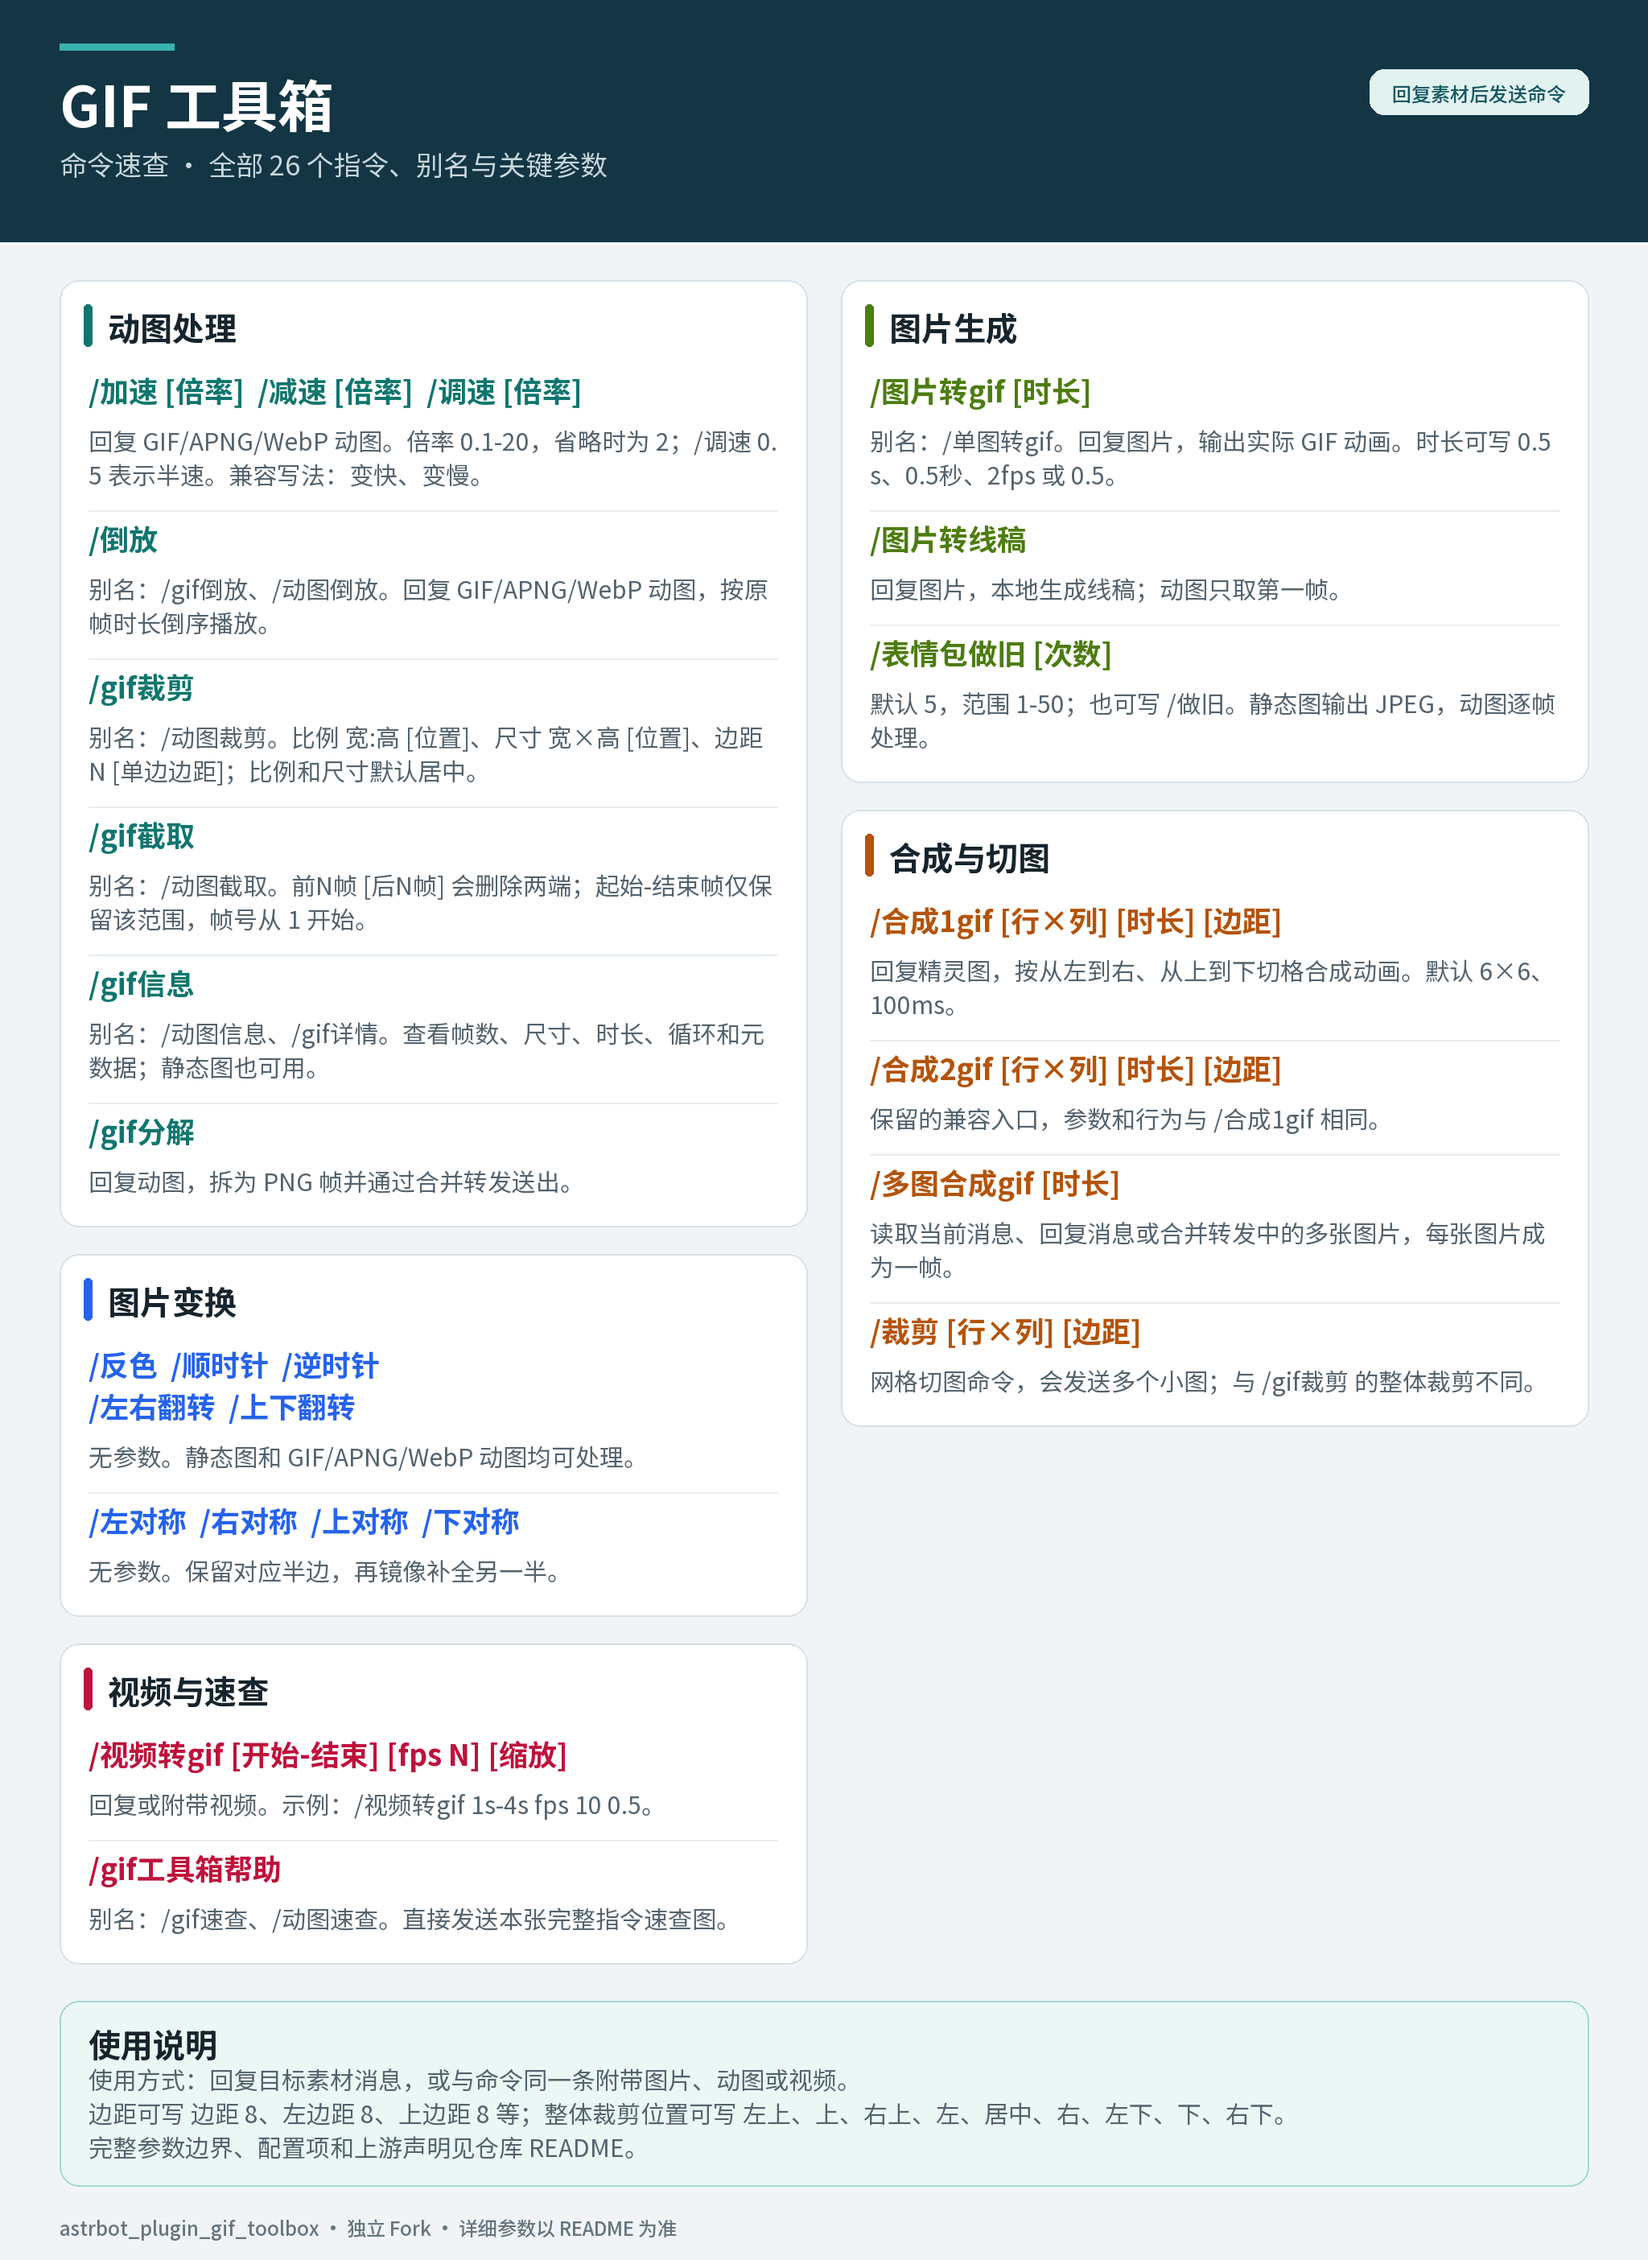
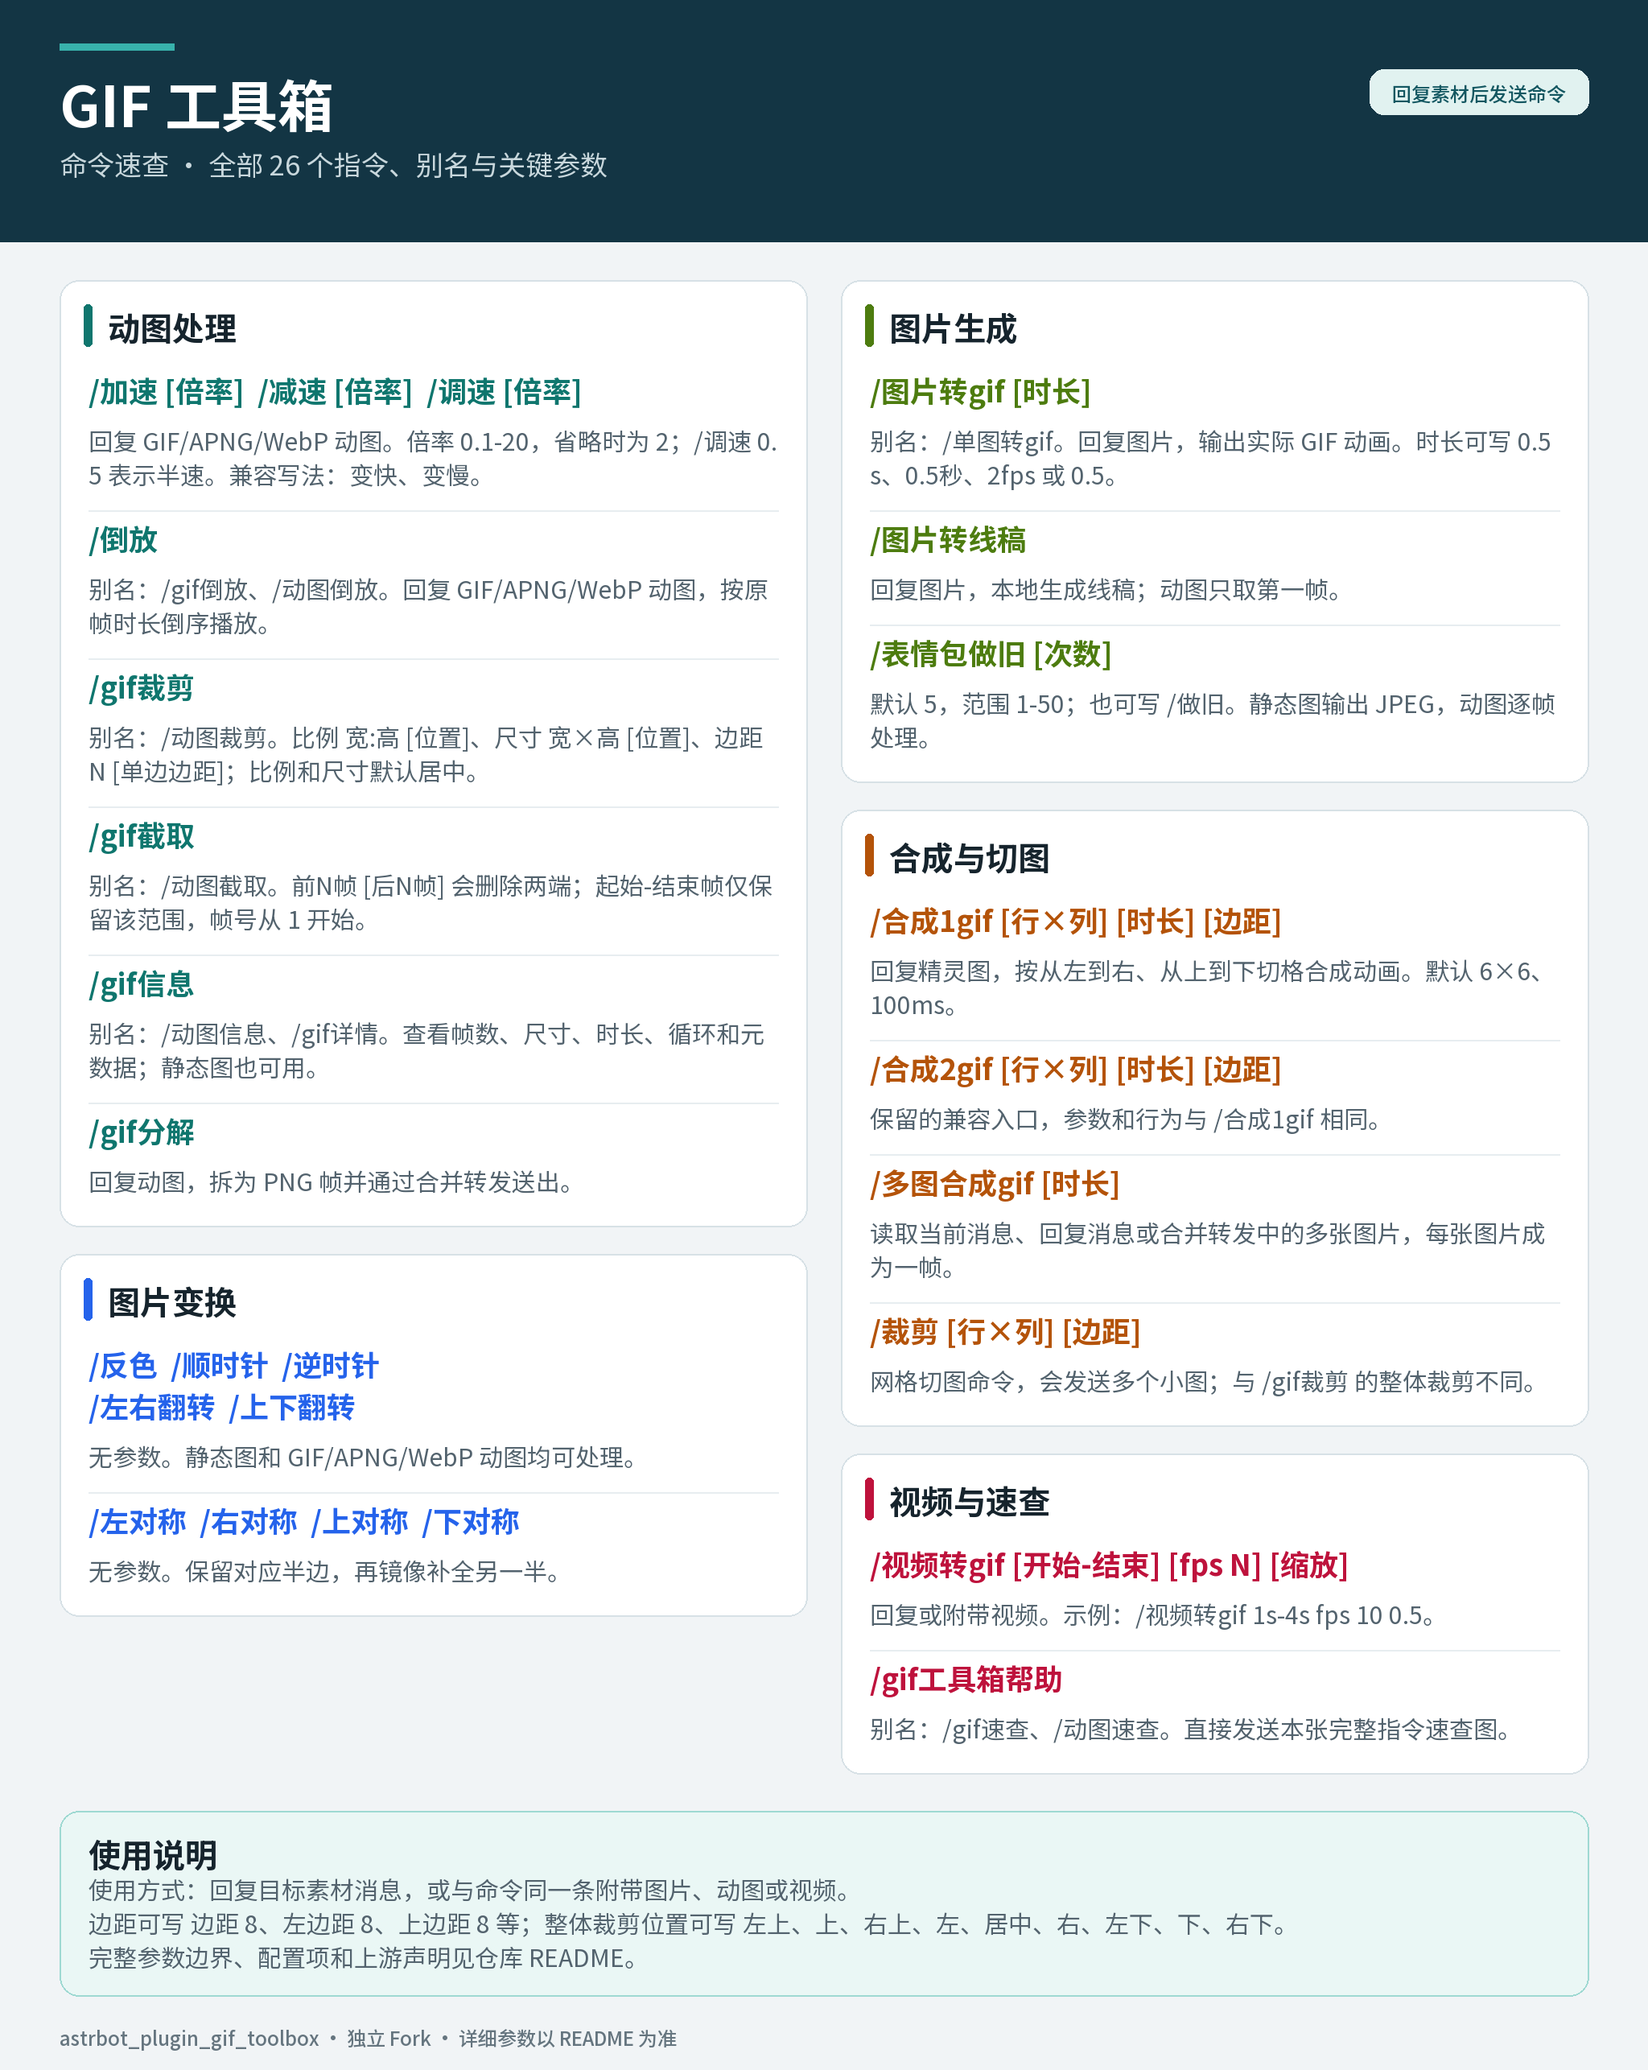
fix: balance command reference layout

diff --git a/help_card.py b/help_card.py
@@ -132,7 +132,7 @@ HELP_CARD_SECTIONS: Final = (
     ),
 )
 
-HELP_CARD_COLUMNS: Final = ((0, 1, 4), (2, 3))
+HELP_CARD_COLUMNS: Final = ((0, 1), (2, 3, 4))
 HELP_CARD_FOOTER: Final = (
     "使用方式：回复目标素材消息，或与命令同一条附带图片、动图或视频。",
     (
